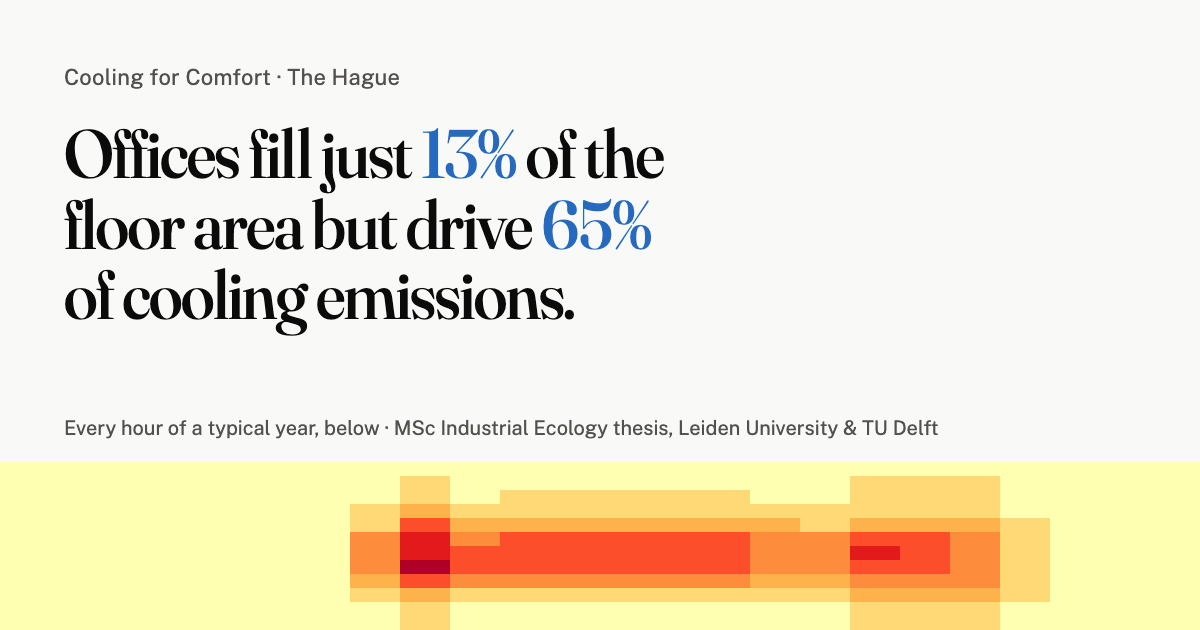
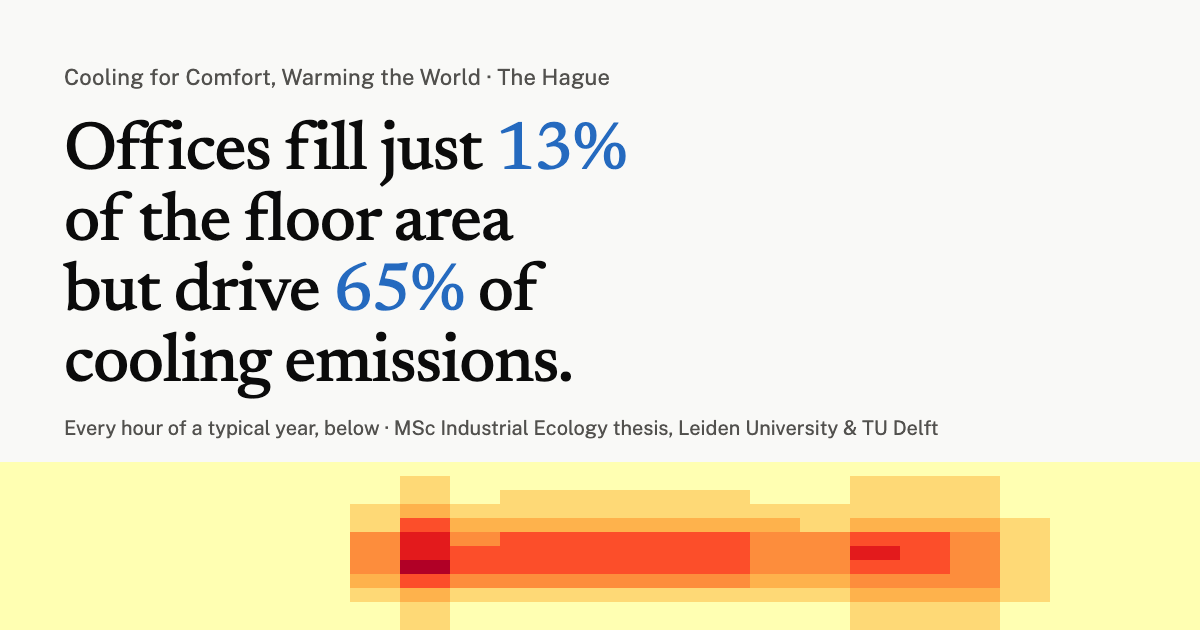
perf(dashboard): lighter Newsreader, refined wordmark, reduced-motion test
- Ship Newsreader as its weight-axis subset (~58 kB, down from the 132 kB
  opsz file and lighter than the old Fraunces) — the same cut used in the
  font comparison. Drop the now-inert opsz variation settings; the axis is
  gone from the file.
- Refine the hero: the wordmark lockup is a smaller, deliberate title above
  the finding, so the two serif blocks no longer compete and the finding
  stays the hero. Nudge the finding up a touch.
- Add an e2e test asserting reduced motion holds: reveals stay opaque, smooth
  scroll is off, and the bar-grow animation is suppressed.
- Regenerate the social card with the new face and full title.

Changed region(s): [[0.0308, 0.181, 0.555, 0.6333], [0.2158, 0.0905, 0.4317, 0.1508], [0.4317, 0.0905, 0.5242, 0.1508]]

diff --git a/dashboard/e2e/a11y.spec.ts b/dashboard/e2e/a11y.spec.ts
@@ -30,6 +30,30 @@ for (const colorScheme of ["light", "dark"] as const) {
   });
 }
 
+test("reduced motion disables the reveal and bar-grow", async ({ page }) => {
+  await page.emulateMedia({ reducedMotion: "reduce" });
+  await page.goto("/");
+  await expect(page.getByRole("heading", { name: /choose the path to 2050/i })).toBeVisible({
+    timeout: 20_000,
+  });
+  // A below-the-fold reveal act is fully opaque without being scrolled into view.
+  const opacity = await page.locator("#payoff").evaluate((el) => getComputedStyle(el).opacity);
+  expect(opacity).toBe("1");
+  // Smooth anchor scrolling is off.
+  const scrollBehavior = await page.evaluate(
+    () => getComputedStyle(document.documentElement).scrollBehavior,
+  );
+  expect(scrollBehavior).toBe("auto");
+  // The bar-grow entrance is suppressed even once the charts are in view (grow class added).
+  await page.locator("#payoff").scrollIntoViewIfNeeded();
+  await expect(page.locator(".payoff--grow")).toBeVisible();
+  const animation = await page
+    .locator(".payoff__bar")
+    .first()
+    .evaluate((el) => getComputedStyle(el).animationName);
+  expect(animation).toBe("none");
+});
+
 test("captures a screenshot for the README", async ({ page }) => {
   await page.setViewportSize({ width: 1200, height: 900 });
   await ready(page);

diff --git a/dashboard/src/index.css b/dashboard/src/index.css
@@ -10,9 +10,9 @@
 
 @font-face {
   /* Newsreader: an editorial serif drawn for on-screen reading — legible where Fraunces's
-     high contrast was not. opsz axis runs 6–72 (Fraunces ran to 144). */
+     high contrast was not. The weight-axis subset (no opsz) keeps the file to ~58 kB. */
   font-family: "Newsreader";
-  src: url("/fonts/newsreader-latin-opsz-normal.woff2") format("woff2-variations");
+  src: url("/fonts/newsreader-latin-wght-normal.woff2") format("woff2-variations");
   font-weight: 100 900;
   font-display: swap;
   unicode-range: U+0000-00FF, U+0131, U[phone redacted], U+02BB-02BC, U+2000-206F, U+2122, U+2212;
@@ -147,7 +147,6 @@ section > h2,
   font-size: 1.0625rem;
   margin: 0;
   font-weight: 600;
-  font-variation-settings: "opsz" 20;
 }
 .masthead nav {
   display: flex;
@@ -194,7 +193,6 @@ section {
 section > h2 {
   font-size: clamp(1.5rem, 2.6vw, 1.95rem);
   font-weight: 600;
-  font-variation-settings: "opsz" 60;
   line-height: 1.15;
   margin: 0 0 0.35rem;
 }
@@ -647,18 +645,20 @@ footer.colophon {
   transform: none;
 }
 
-/* Act 1 — the wordmark lockup + hero headline. */
+/* Act 1 — the wordmark lockup + hero headline. The lockup is the thesis's identity: a
+   refined title that sits above the hero finding, deliberately smaller so the finding (the
+   most characteristic thing in the subject's world) stays the hero and the two serif blocks
+   don't compete. */
 .wordmark {
   display: flex;
   flex-direction: column;
-  line-height: 1;
+  line-height: 1.04;
   font-weight: 600;
-  font-variation-settings: "opsz" 72;
-  letter-spacing: -0.018em;
-  margin: 0 0 1.5rem;
+  letter-spacing: -0.01em;
+  margin: 0 0 1.6rem;
 }
 .wordmark span {
-  font-size: clamp(1.6rem, 4.5vw, 2.6rem);
+  font-size: clamp(1.3rem, 3.2vw, 1.95rem);
 }
 /* The thesis's second half rides the High-path red: business-as-usual is what warms the world. */
 .wordmark__warm {
@@ -667,9 +667,8 @@ footer.colophon {
 .hero__headline {
   font-family: var(--display);
   letter-spacing: -0.02em;
-  font-size: clamp(1.9rem, 4.4vw, 3.2rem);
+  font-size: clamp(2rem, 4.6vw, 3.3rem);
   font-weight: 500;
-  font-variation-settings: "opsz" 72;
   line-height: 1.05;
   text-wrap: balance;
   max-width: 20ch;

diff --git a/dashboard/index.html b/dashboard/index.html
@@ -39,7 +39,7 @@
     />
     <link
       rel="preload"
-      href="/fonts/newsreader-latin-opsz-normal.woff2"
+      href="/fonts/newsreader-latin-wght-normal.woff2"
       as="font"
       type="font/woff2"
       crossorigin